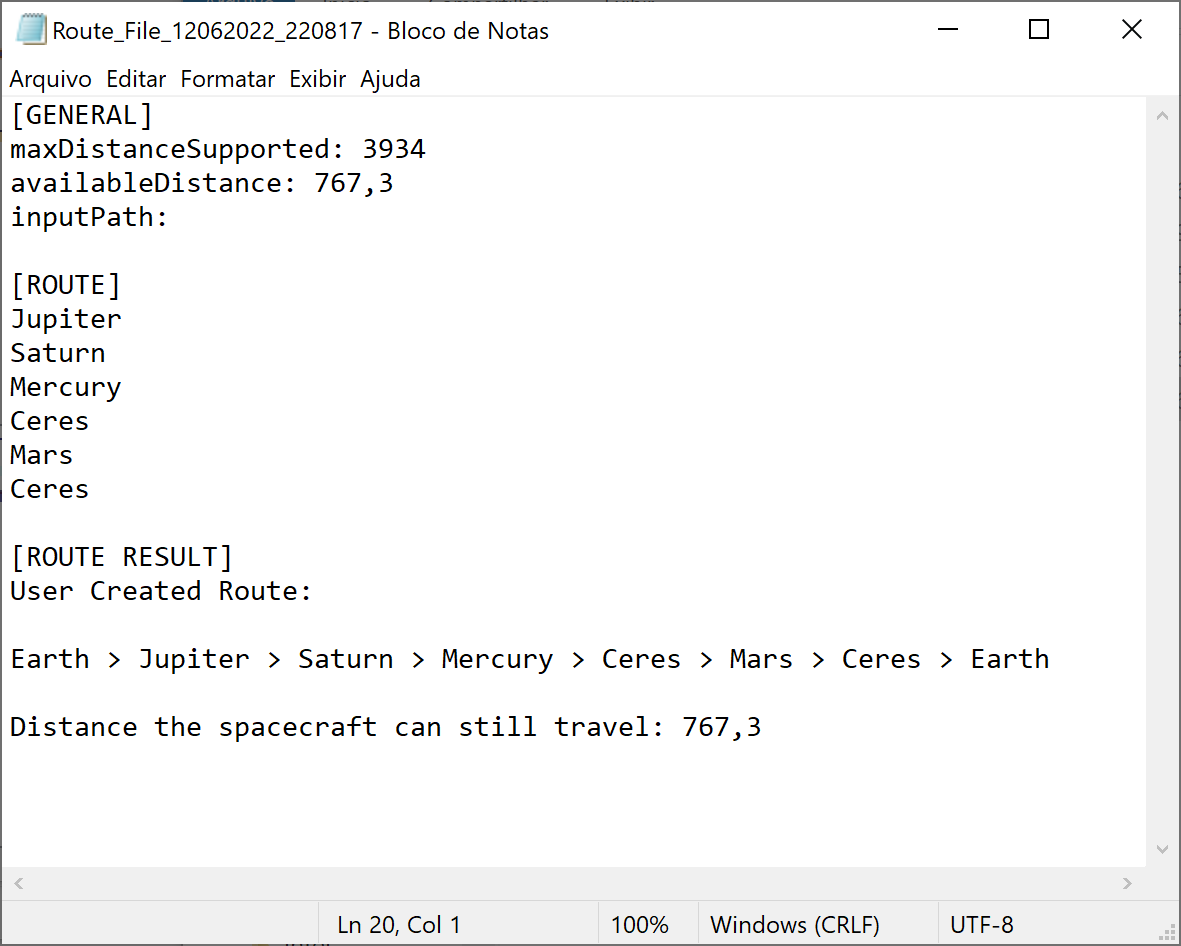
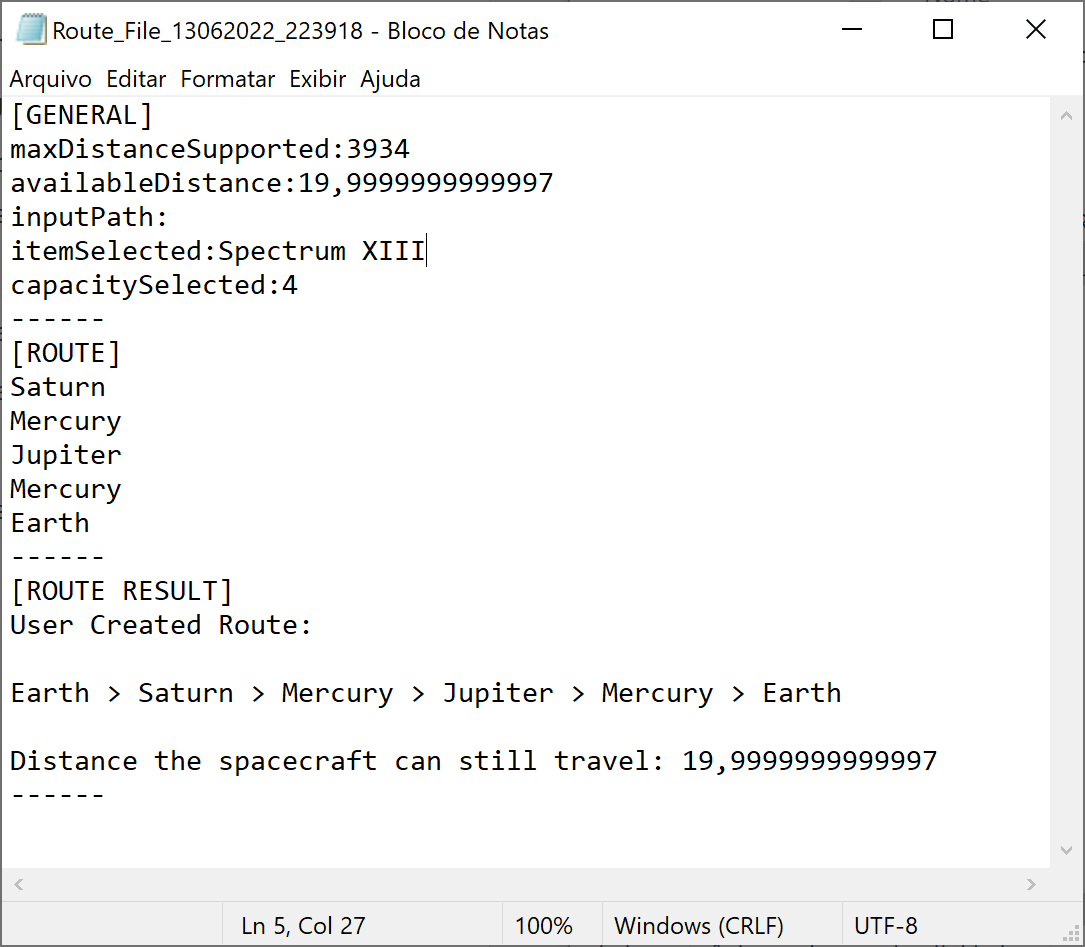
Added Load File feature

diff --git a/isarAssignment/Form1.cs b/isarAssignment/Form1.cs
@@ -26,6 +26,10 @@ namespace isarAssignment
         private String inputPath = "";
         private String savedFilePath = "";
         private String file = "";
+        private String loadSpacecraft = "";
+        private String loadCapacity = "";
+        private String loadDestinationItems = "";
+        private String loadText = "";
         public s()
         {
             InitializeComponent();
@@ -129,6 +133,12 @@ namespace isarAssignment
                     for (int index = 0; index < capacity; index++)
                     {
                         capacity_ComboBox.Items.Add(index + 1);
+                    }
+
+                    if (loadCapacity != "")
+                    {
+                        capacity_ComboBox.SelectedItem = int.Parse(loadCapacity);
+                        Console.WriteLine(loadCapacity);
                     }
                 }
                 catch(Exception ex)
@@ -432,12 +442,23 @@ namespace isarAssignment
             route_textBox.Text = route_textBox.Text + "Distance the spacecraft can still travel: " + availableDistance;
         }
 
-        private void openDialog()
+        private void openDialog(String type)
         {
-            Thread thread = new Thread(new ThreadStart(this.saveFile));
-            thread.SetApartmentState(ApartmentState.STA);
-            thread.IsBackground = true;
-            thread.Start();
+            if (type == "save")
+            {
+                Thread thread = new Thread(new ThreadStart(this.saveFile));
+                thread.SetApartmentState(ApartmentState.STA);
+                thread.IsBackground = true;
+                thread.Start();
+            }
+            else
+            {
+                Thread thread = new Thread(new ThreadStart(this.loadFile));
+                thread.SetApartmentState(ApartmentState.STA);
+                thread.IsBackground = true;
+                thread.Start();
+                thread.Join();
+            }
         }
 
         [STAThread]
@@ -446,20 +467,53 @@ namespace isarAssignment
             file = "";
             //---------- General Data -------------------
             file = file + "[GENERAL]\r\n";
-            file = file + "maxDistanceSupported: " + maxDistanceSupported + "\r\n";
-            file = file + "availableDistance: " + availableDistance + "\r\n";
-            file = file + "inputPath: " + inputPath + "\r\n";
+            file = file + "maxDistanceSupported:" + maxDistanceSupported + "\r\n";
+            file = file + "availableDistance:" + availableDistance + "\r\n";
+            file = file + "inputPath:" + inputPath + "\r\n";
+            file = file + "itemSelected:" + spacecraft_ComboBox.Text + "\r\n";
+            file = file + "capacitySelected:" + capacity_ComboBox.Text + "\r\n";
+
+            //Separators to make the file easier to read
+            file = file + "------";
 
             //--------- Route Data --------------
             file = file + "\r\n[ROUTE]\r\n";
+
             for (int index = 0; index < destination_listBox.Items.Count; index++)
                 file = file + destination_listBox.Items[index].ToString() + "\r\n";
+
+            file = file + "------";
 
             //--------- Route Result --------------
             file = file + "\r\n[ROUTE RESULT]\r\n";
                 file = file + route_textBox.Text + "\r\n";
 
-            openDialog();
+            file = file + "------";
+
+            openDialog("save");
+
+        }
+
+        [STAThread]
+        private void load_route_button_Click(object sender, EventArgs e)
+        {
+            openDialog("load");
+
+            if(loadSpacecraft != "")
+                spacecraft_ComboBox.SelectedItem = loadSpacecraft;
+
+            String[] itemsFromFile = loadDestinationItems.Split(':');
+
+            for (int index = 1; index < itemsFromFile.Length; index++)
+                destination_listBox.Items.Add(itemsFromFile[index]);
+
+            route_textBox.Text = loadText;
+
+            //cleanning the attibutes
+            loadSpacecraft = "";
+            loadCapacity = "";
+            loadDestinationItems = "";
+            loadText = "";
 
         }
 
@@ -467,7 +521,7 @@ namespace isarAssignment
         public void saveFile ()
         {
             saveFileDialog1.Title = "Save Route File";
-            saveFileDialog1.Filter = "Text File|.txt";
+            saveFileDialog1.Filter = "txt files (*.txt)|*.txt|All files (*.*)|*.*";
             saveFileDialog1.FilterIndex = 0;
             saveFileDialog1.FileName = "Route_File_" + DateTime.Now.ToString("ddMMyyyy_HHmmss");
             saveFileDialog1.DefaultExt = ".txt";
@@ -476,7 +530,7 @@ namespace isarAssignment
 
             saveFileDialog1.CheckPathExists = true;
 
-                DialogResult result = saveFileDialog1.ShowDialog();
+            DialogResult result = saveFileDialog1.ShowDialog();
 
             if (result == DialogResult.OK)
             {
@@ -502,5 +556,109 @@ namespace isarAssignment
                 MessageBox.Show("Operation was canceled!");
             }
         }
+
+        [STAThread]
+        public void loadFile()
+        {
+            openFileDialog1.Title = "Open Route File";
+            openFileDialog1.Filter = "txt files (*.txt)|*.txt|All files (*.*)|*.*";
+            openFileDialog1.FilterIndex = 2;
+            openFileDialog1.DefaultExt = ".txt";
+            openFileDialog1.RestoreDirectory = true;
+            var fileContent = string.Empty;
+            var filePath = string.Empty;
+            String test = "";
+
+            openFileDialog1.CheckPathExists = true;
+
+            DialogResult result = openFileDialog1.ShowDialog();
+
+            if (result == DialogResult.OK)
+            {
+                /* The reading will be done following the structure defined in the save_route_button_Click method.
+                 * As the loadFile method executes within a thread, it is not possible to access form elements.
+                 * With this, the file information was stored in attributes.*/
+                try
+                {
+                    filePath = openFileDialog1.FileName;
+                    var fileStream = openFileDialog1.OpenFile();
+                    
+
+                    using (StreamReader reader = new StreamReader(fileStream))
+                    {
+                        while (reader.Peek() >= 0)
+                        {
+                            String content = reader.ReadLine();
+
+                            if (content == "[GENERAL]")
+                            {
+                                content = reader.ReadLine();
+                                while (content != "------")
+                                {
+                                    String[] elements = content.Split(':');
+
+                                    if (elements[0] != null || elements[1] != null)
+                                    {
+                                        if (elements[0].ToLower() == "maxDistanceSupported".ToLower())
+                                        {
+                                            maxDistanceSupported = double.Parse(elements[1].ToString());
+                                        }
+                                        else if (elements[0].ToLower() == "availableDistance".ToLower())
+                                        {
+                                            availableDistance = double.Parse(elements[1].ToString());
+                                        }
+                                        else if (elements[0].ToLower() == "inputPath".ToLower())
+                                        {
+                                            inputPath = elements[1].ToString();
+                                        }
+                                        else if (elements[0].ToLower() == "itemSelected".ToLower())
+                                        {
+                                            loadSpacecraft = elements[1].ToString();
+                                        }
+                                        else if (elements[0].ToLower() == "capacitySelected".ToLower())
+                                        {
+                                            loadCapacity = elements[1].ToString();
+                                        }
+                                    }
+                                    content = reader.ReadLine();
+                                }
+                            }
+                            else if (content == "[ROUTE]")
+                            {
+                                content = reader.ReadLine();
+                                while (content != "------")
+                                {
+                                    loadDestinationItems = loadDestinationItems + ":" + content;
+                                    content = reader.ReadLine();
+                                }
+                            }
+                            else if (content == "[ROUTE RESULT]")
+                            {
+                                content = reader.ReadLine();
+                                String text = content;
+
+                                while (content != "------")
+                                {
+                                    text = text + content.ToString() + "\r\n";
+                                    content = reader.ReadLine();
+                                }
+                                loadText = text;
+                            }
+
+                        }
+                    }
+                }
+                catch (Exception ex)
+                {
+                    Console.WriteLine("Could not open the file!");
+                    Console.WriteLine(ex.Message);
+                    Console.WriteLine(ex.ToString());
+                }
+            }
+            else
+            {
+                MessageBox.Show("Operation was canceled!");
+            }
+        } 
     }
 }

diff --git a/isarAssignment/Form1.Designer.cs b/isarAssignment/Form1.Designer.cs
@@ -45,6 +45,7 @@
             this.logo_pictureBox = new System.Windows.Forms.PictureBox();
             this.pictureBox1 = new System.Windows.Forms.PictureBox();
             this.saveFileDialog1 = new System.Windows.Forms.SaveFileDialog();
+            this.openFileDialog1 = new System.Windows.Forms.OpenFileDialog();
             ((System.ComponentModel.ISupportInitialize)(this.logo_pictureBox)).BeginInit();
             ((System.ComponentModel.ISupportInitialize)(this.pictureBox1)).BeginInit();
             this.SuspendLayout();
@@ -149,6 +150,7 @@
             this.load_route_button.TabIndex = 11;
             this.load_route_button.Text = "Load Route";
             this.load_route_button.UseVisualStyleBackColor = true;
+            this.load_route_button.Click += new System.EventHandler(this.load_route_button_Click);
             // 
             // save_route_button
             // 
@@ -188,6 +190,10 @@
             this.pictureBox1.SizeMode = System.Windows.Forms.PictureBoxSizeMode.StretchImage;
             this.pictureBox1.TabIndex = 15;
             this.pictureBox1.TabStop = false;
+            // 
+            // openFileDialog1
+            // 
+            this.openFileDialog1.FileName = "openFileDialog1";
             // 
             // s
             // 
@@ -237,6 +243,7 @@
         private System.Windows.Forms.PictureBox logo_pictureBox;
         private System.Windows.Forms.PictureBox pictureBox1;
         private System.Windows.Forms.SaveFileDialog saveFileDialog1;
+        private System.Windows.Forms.OpenFileDialog openFileDialog1;
     }
 }
 
